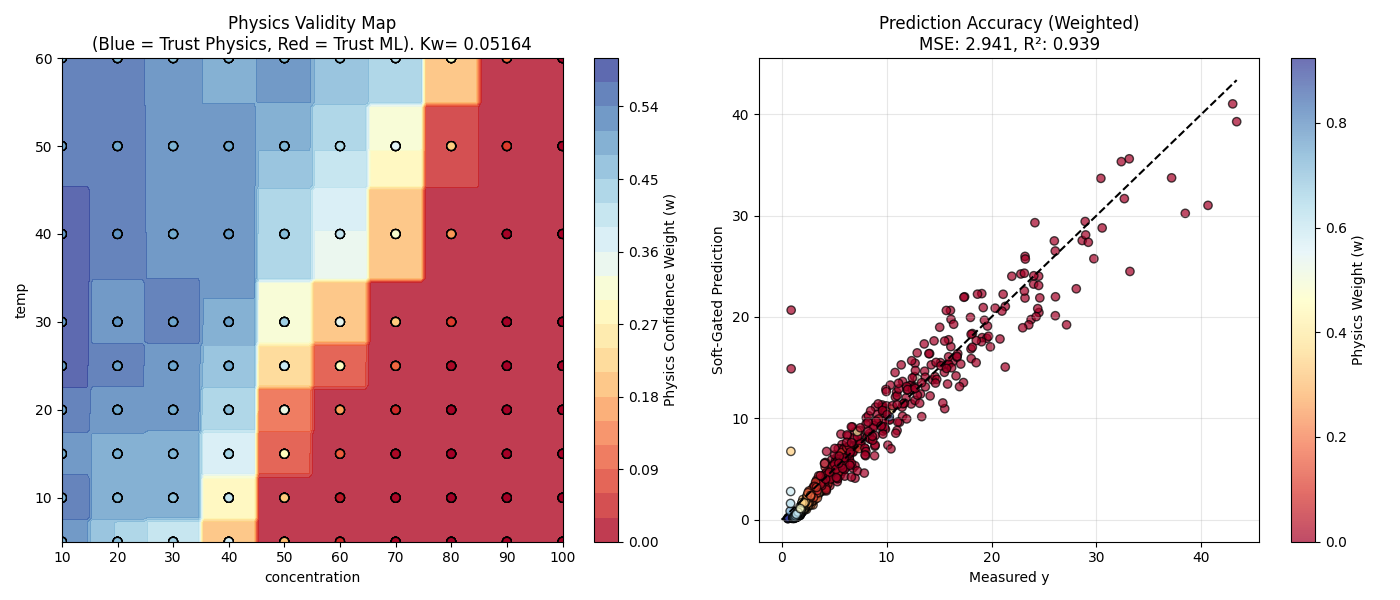
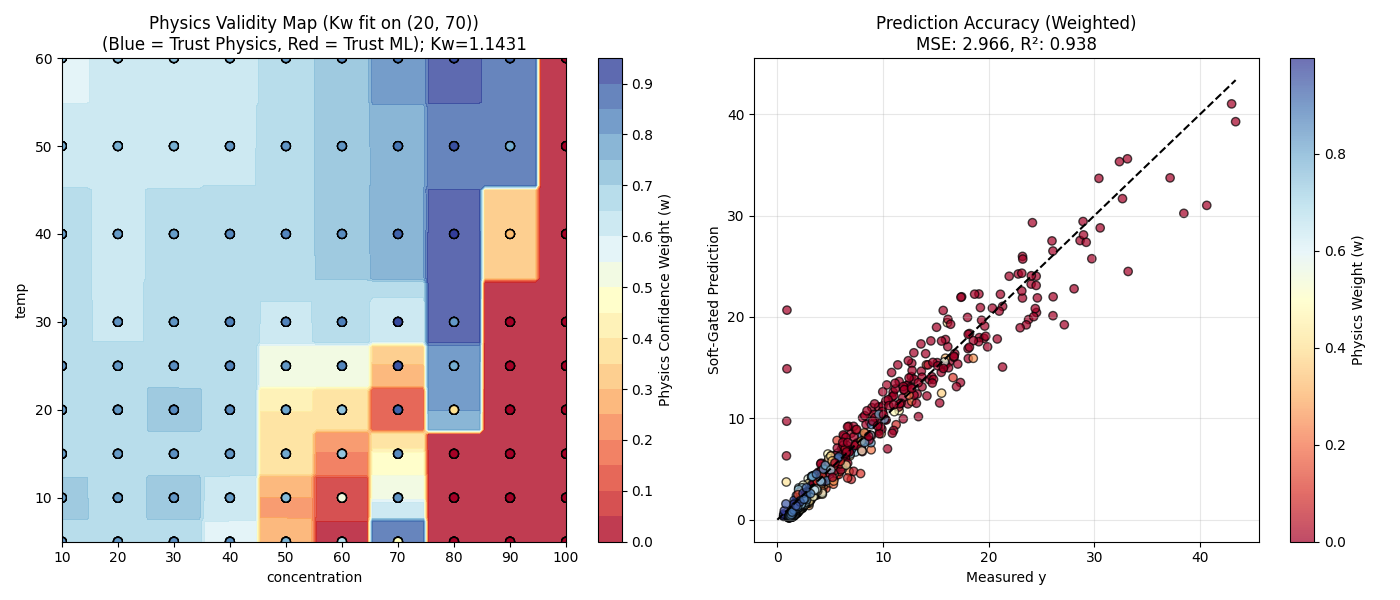
Use 20-70 conc for fitting kw

diff --git a/composite.py b/composite.py
@@ -41,12 +41,12 @@ def load_and_process_data(file_path):
 
     return df_med
 
-def train_soft_gated_model(df):
+def train_soft_gated_model(df, valid_conc_range=None):
     """
     Trains a Soft-Gated Mixture Model:
-    1. Physics Model: Estimates Kw.
-    2. Complex Model: MLP trained on full data.
-    3. Error Model: RF predicts the expected deviation from physics.
+    1. Physics Model: Estimates Kw using ONLY data within valid_conc_range.
+    2. Complex Model: MLP trained on FULL dataset.
+    3. Error Model: RF predicts deviation from Kw*x (calculated for FULL dataset).
     """
     
     feature_cols = ['concentration', 'temp', 'rpm', 'f0_hz']
@@ -64,25 +64,48 @@ def train_soft_gated_model(df):
         ])
     X_processed = preprocessor.fit_transform(X_raw)
 
-    # --- Step 1: Physics Model (RANSAC) ---
+    # --- Step 1: Physics Model (RANSAC) on RESTRICTED Range ---
+    # We must explicitly separate the calibration data to ensure mask alignment
+    if valid_conc_range:
+        min_c, max_c = valid_conc_range
+        print(f"Restricting Physics (Kw) estimation to Concentration: {min_c}% - {max_c}%")
+        physics_mask = (df['concentration'] >= min_c) & (df['concentration'] <= max_c)
+        
+        if physics_mask.sum() < 5:
+            print("Warning: Too few points in concentration range. Using full dataset.")
+            x_calib = x_physics
+            y_calib = y_target
+        else:
+            x_calib = x_physics[physics_mask]
+            y_calib = y_target[physics_mask]
+            print(f"Physics calibrated on {physics_mask.sum()} points.")
+    else:
+        print("Using full concentration range for Physics estimation.")
+        x_calib = x_physics
+        y_calib = y_target
+
     base_linear = LinearRegression(fit_intercept=False)
     ransac = RANSACRegressor(estimator=base_linear, min_samples=0.4, residual_threshold=None, random_state=42)
-    ransac.fit(x_physics, y_target.ravel())
+    ransac.fit(x_calib, y_calib.ravel())
     
     Kw = ransac.estimator_.coef_[0]
-    inlier_std = np.std(y_target[ransac.inlier_mask_] - Kw * x_physics[ransac.inlier_mask_])
+    
+    # Calculate noise sigma from the INLIERS of the calibration set
+    # We index into x_calib/y_calib because ransac.inlier_mask_ corresponds to that subset
+    inlier_residuals = y_calib[ransac.inlier_mask_].ravel() - Kw * x_calib[ransac.inlier_mask_].ravel()
+    inlier_std = np.std(inlier_residuals)
+    
     print(f"Physics Slope (Kw): {Kw:.4f}")
     print(f"Inlier Noise Std (Sigma): {inlier_std:.4f}")
 
-    # --- Step 2: Complex Model (Full MLP) ---
-    # We train the MLP on the FULL dataset to ensure it knows how to predict everything
+    # --- Step 2: Complex Model (Full MLP) on FULL Dataset ---
     print("Training Complex MLP on full dataset...")
     mlp = MLPRegressor(hidden_layer_sizes=(64, 32), activation='relu', solver='adam', 
                        max_iter=2000, random_state=42)
     mlp.fit(X_processed, y_target.ravel())
 
-    # --- Step 3: Error Prediction Model (The Residual Part) ---
-    # Calculate the absolute residual from the Physics model for every point
+    # --- Step 3: Error Prediction Model on FULL Dataset ---
+    # We predict residuals for EVERY point based on the Kw we found in the restricted range.
     y_phys_all = Kw * x_physics.ravel()
     abs_residuals = np.abs(y_target.ravel() - y_phys_all)
     
@@ -96,7 +119,8 @@ def train_soft_gated_model(df):
         'error_model': error_model,
         'preprocessor': preprocessor,
         'sigma': inlier_std,
-        'feature_cols': feature_cols
+        'feature_cols': feature_cols,
+        'valid_conc_range': valid_conc_range
     }
 
 def predict_soft_gated(model_dict, df):
@@ -117,9 +141,7 @@ def predict_soft_gated(model_dict, df):
     pred_error = model_dict['error_model'].predict(X_proc)
     
     # 4. Calculate Weight (Gaussian Kernel)
-    # w = 1 when error is 0. w -> 0 as error increases.
-    # sigma is the noise level of the "good" physics data.
-    sigma = model_dict['sigma'] * 3.0  # Multiplier tunes the "strictness" of the physics zone
+    sigma = model_dict['sigma'] * 3.0  # Trust region width
     weights = np.exp(- (pred_error**2) / (2 * sigma**2))
     
     # Blend
@@ -135,11 +157,9 @@ def plot_soft_gated_results(df, model_dict):
     # --- Subplot 1: Physics Confidence Map ---
     plt.subplot(1, 2, 1)
     
-    # Identify Top 2 features for plotting
     rf = model_dict['error_model']
     importances = rf.feature_importances_
     
-    # Get feature names
     num_feats = model_dict['feature_cols']
     cat_feats = model_dict['preprocessor'].named_transformers_['cat'].get_feature_names_out()
     all_feat_names = np.concatenate([num_feats, cat_feats])
@@ -149,7 +169,6 @@ def plot_soft_gated_results(df, model_dict):
     top2_idx_local = np.argsort(num_importances)[-2:] 
     top2_names = [num_feats[i] for i in top2_idx_local]
     
-    # Meshgrid
     x_min, x_max = df[top2_names[0]].min(), df[top2_names[0]].max()
     y_min, y_max = df[top2_names[1]].min(), df[top2_names[1]].max()
     xx, yy = np.meshgrid(np.linspace(x_min, x_max, 100), np.linspace(y_min, y_max, 100))
@@ -159,16 +178,13 @@ def plot_soft_gated_results(df, model_dict):
         if col not in top2_names: mesh_df[col] = df[col].median()
     mesh_df['material'] = 'iron'
     
-    # Predict Error on Mesh
     mesh_X_proc = model_dict['preprocessor'].transform(mesh_df[['concentration', 'temp', 'rpm', 'f0_hz', 'material']])
     mesh_err = model_dict['error_model'].predict(mesh_X_proc)
     
-    # Convert error to weight for visualization
     sigma = model_dict['sigma'] * 3.0
     mesh_w = np.exp(- (mesh_err**2) / (2 * sigma**2))
     Z = mesh_w.reshape(xx.shape)
     
-    # Plot Confidence Contour
     contour = plt.contourf(xx, yy, Z, levels=20, cmap='RdYlBu', alpha=0.8)
     cbar = plt.colorbar(contour)
     cbar.set_label('Physics Confidence Weight (w)')
@@ -176,7 +192,8 @@ def plot_soft_gated_results(df, model_dict):
     plt.scatter(df[top2_names[0]], df[top2_names[1]], c=weights, cmap='RdYlBu', edgecolors='k', s=40)
     plt.xlabel(top2_names[0])
     plt.ylabel(top2_names[1])
-    plt.title(f'Physics Validity Map\n(Blue = Trust Physics, Red = Trust ML). Kw= {model_dict['Kw']:.5f}')
+    range_text = f" (Kw fit on {model_dict['valid_conc_range']})" if model_dict['valid_conc_range'] else ""
+    plt.title(f'Physics Validity Map{range_text}\n(Blue = Trust Physics, Red = Trust ML); Kw={model_dict['Kw']:.4f}')
 
     # --- Subplot 2: Prediction ---
     plt.subplot(1, 2, 2)
@@ -202,6 +219,10 @@ if __name__ == "__main__":
     print("Loading Data...")
     df = load_and_process_data(file_path)
     if df is not None:
-        print("Training Soft-Gated Model...")
-        model_dict = train_soft_gated_model(df)
+        # Define the valid concentration range for physics (e.g., 0 to 60%)
+        # Adjust this tuple as needed: (min_conc, max_conc)
+        physics_concentration_range = (20, 70) 
+        
+        print(f"Training Soft-Gated Model with restricted physics range: {physics_concentration_range}...")
+        model_dict = train_soft_gated_model(df, valid_conc_range=physics_concentration_range)
         plot_soft_gated_results(df, model_dict)
